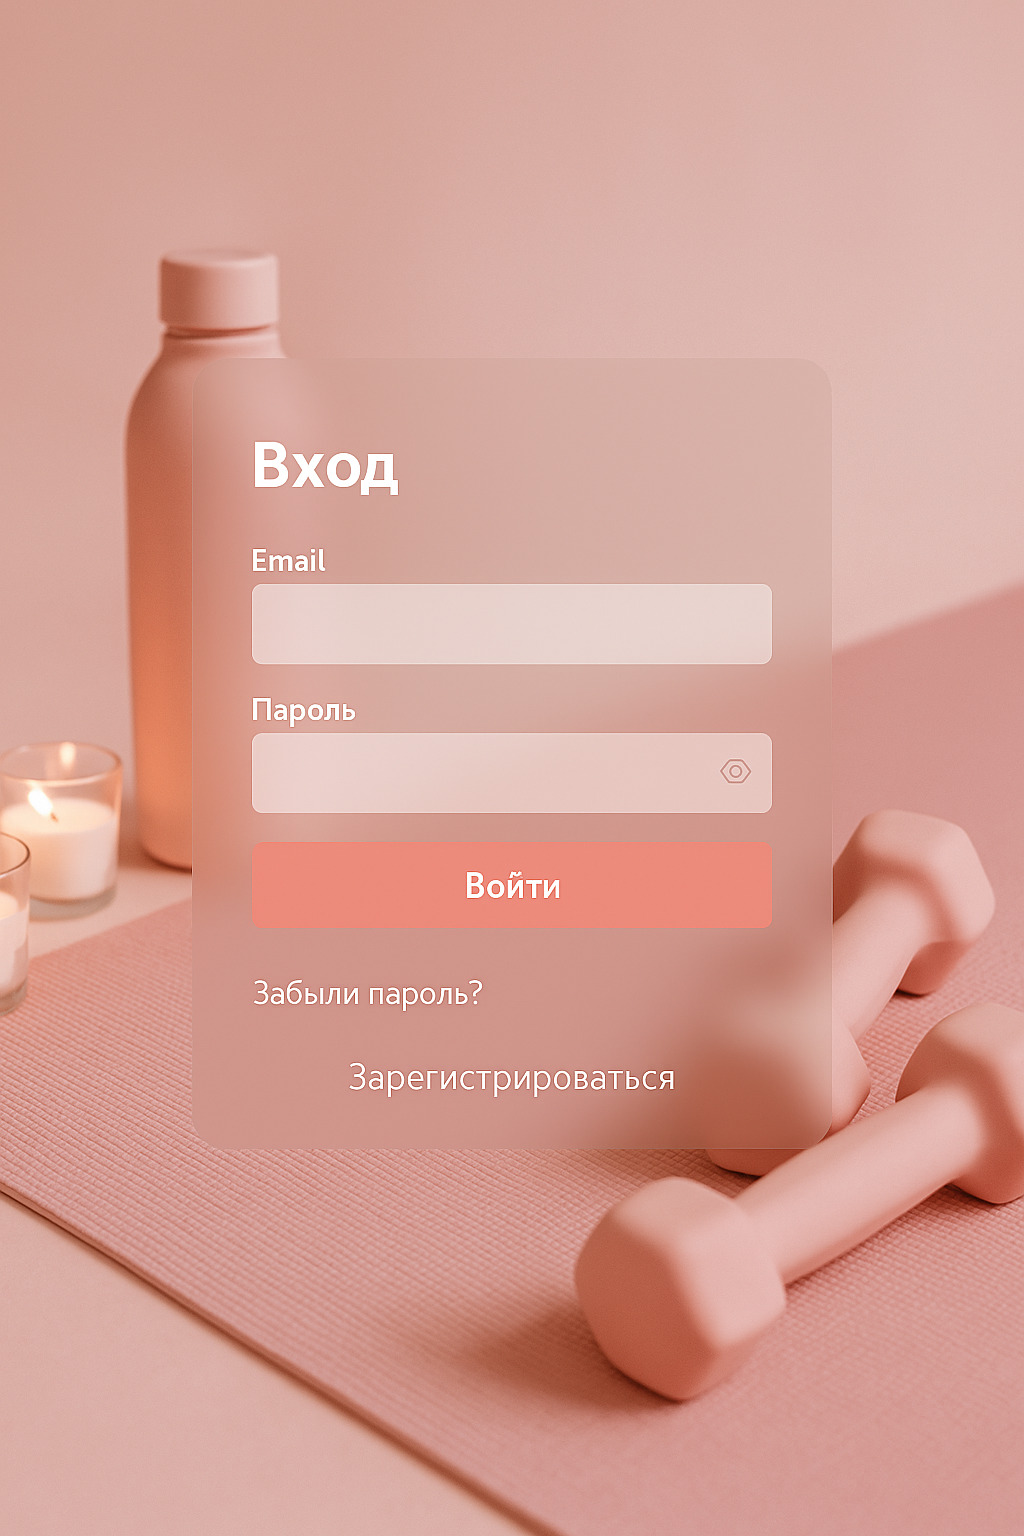
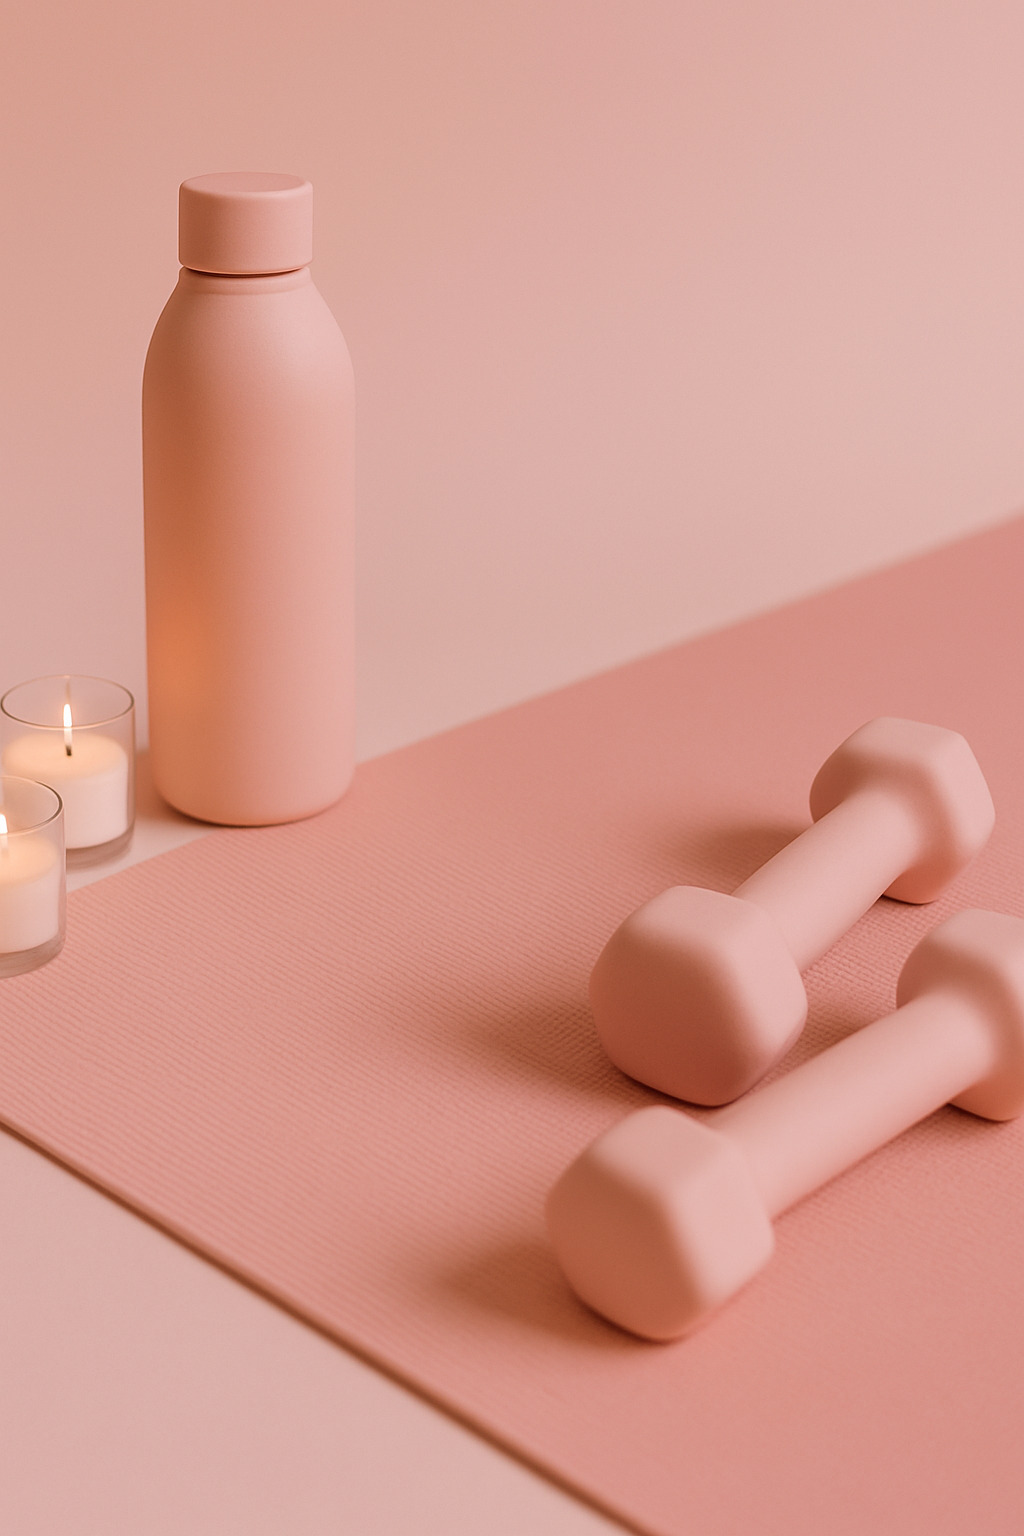
Обновления проекта

Changed region(s): [[0.0, 0.125, 1.0, 1.0]]

diff --git a/frontend/pages/ResetPassword.tsx b/frontend/pages/ResetPassword.tsx
@@ -74,32 +74,59 @@ export default function ResetPassword({ onBack }: Props) {
   };
 
   return (
-    <Container size="xs" mt="xl">
-      <Title order={2} mb="md">Новый пароль</Title>
+    <div
+      style={{
+        backgroundImage: 'url(/images/reset-bg.jpg)',
+        backgroundSize: 'cover',
+        backgroundPosition: 'center',
+        minHeight: '100vh',
+        display: 'flex',
+        alignItems: 'center',
+        justifyContent: 'center',
+        padding: 16,
+      }}
+    >
+      <Container
+        size="xs"
+        p="xl"
+        style={{
+          backgroundColor: 'rgba(255, 255, 255, 0.85)',
+          borderRadius: 16,
+          boxShadow: '0 4px 12px rgba(0, 0, 0, 0.1)',
+        }}
+      >
+        <Title order={2} mb="md" ta="center">
+          Новый пароль
+        </Title>
 
-      {done ? (
-        <>
-          <Text mb="md">Пароль успешно обновлён. Теперь войдите с новым паролем.</Text>
-          <Center>
-            <Button color="pink" onClick={onBack}>Назад ко входу</Button>
-          </Center>
-        </>
-      ) : (
-        <Stack>
-          <PasswordInput
-            label="Новый пароль"
-            placeholder="Введите новый пароль"
-            value={password}
-            onChange={(e) => setPassword(e.currentTarget.value)}
-          />
-          <Button onClick={handleSubmit} loading={loading} color="pink">
-            Сохранить пароль
-          </Button>
-          <Button variant="subtle" onClick={onBack} color="gray">
-            Назад ко входу
-          </Button>
-        </Stack>
-      )}
-    </Container>
+        {done ? (
+          <>
+            <Text mb="md" ta="center">
+              Пароль успешно обновлён. Теперь войдите с новым паролем.
+            </Text>
+            <Center>
+              <Button color="pink" onClick={onBack}>
+                Назад ко входу
+              </Button>
+            </Center>
+          </>
+        ) : (
+          <Stack>
+            <PasswordInput
+              label="Новый пароль"
+              placeholder="Введите новый пароль"
+              value={password}
+              onChange={(e) => setPassword(e.currentTarget.value)}
+            />
+            <Button onClick={handleSubmit} loading={loading} color="pink">
+              Сохранить пароль
+            </Button>
+            <Button variant="subtle" onClick={onBack} color="gray">
+              Назад ко входу
+            </Button>
+          </Stack>
+        )}
+      </Container>
+    </div>
   );
 }
